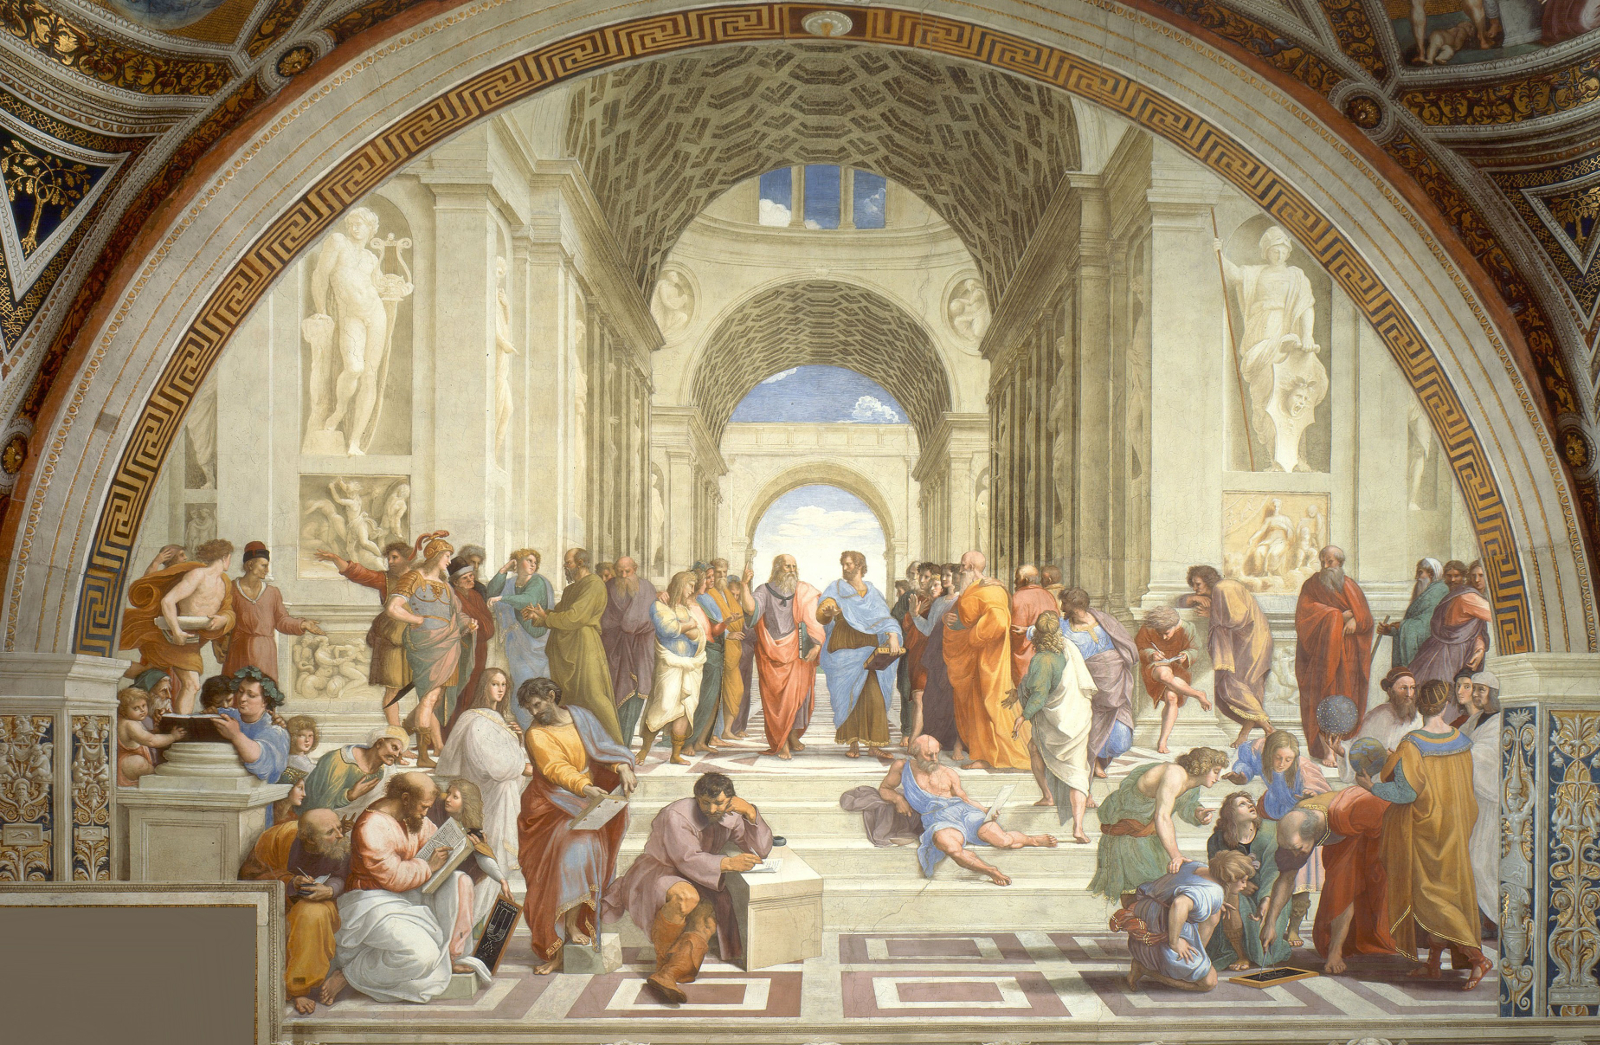
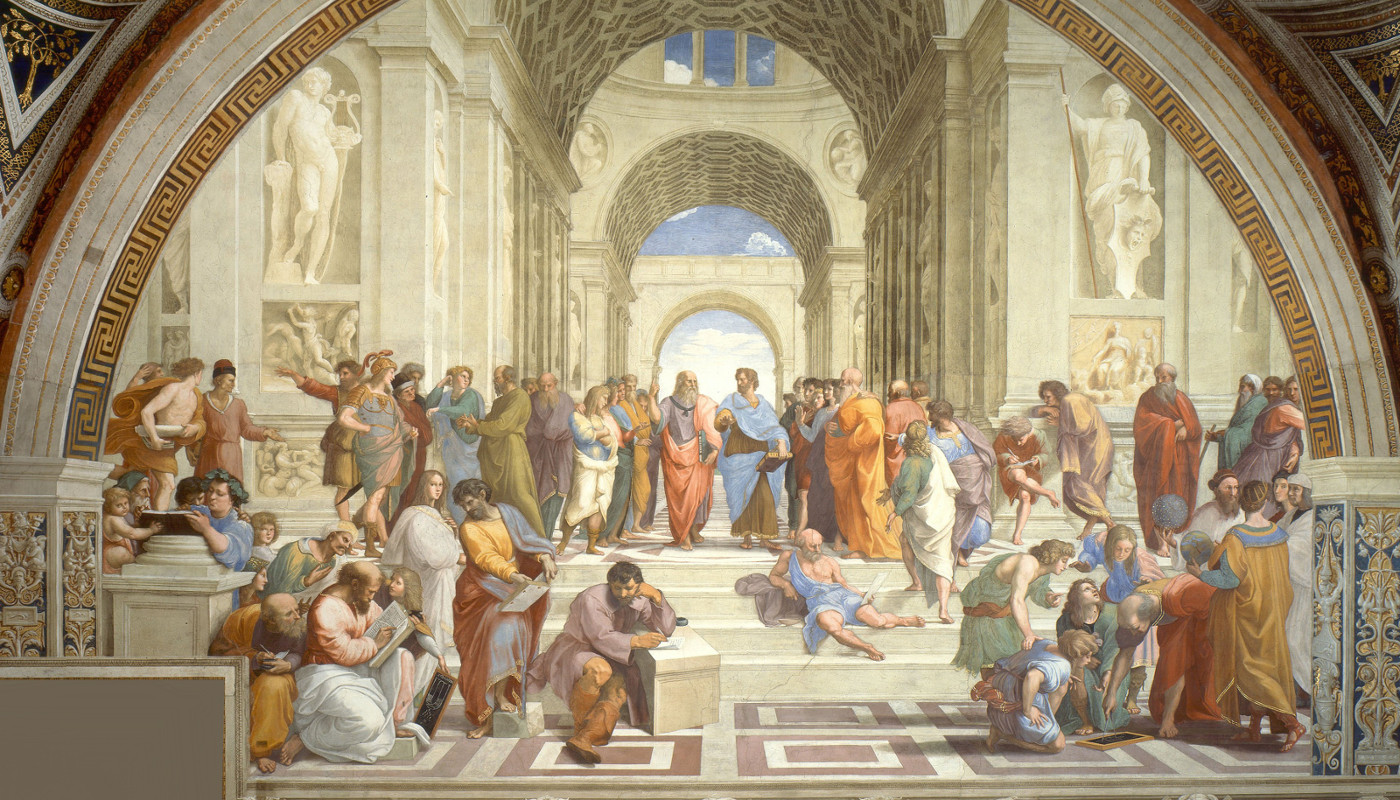
add meta for images and pages, compress images on homepage

diff --git a/lib/utils.js b/lib/utils.js
@@ -200,6 +200,17 @@ this.Utils = {
 		Utils.setMetaTag('property', 'twitter:description', 'content', description);
 		Utils.setMetaTag('itemprop', 'description', 'content', description);
 	},
+	setMetaImage(imageSrc = null){
+		if (imageSrc) {
+			Utils.setMetaTag('property', 'og:image', 'content', imageSrc);
+			Utils.setMetaTag('property', 'twitter:image', 'content', imageSrc);
+			Utils.setMetaTag('itemprop', 'image', 'content', imageSrc);
+		} else {
+			Utils.setMetaTag('property', 'og:image', 'content', `${location.origin}/images/hector.jpg`);
+			Utils.setMetaTag('property', 'twitter:image', 'content', `${location.origin}/images/hector.jpg`);
+			Utils.setMetaTag('itemprop', 'image', 'content', `${location.origin}/images/hector.jpg`);
+		}
+	},
 	setMetaTag(attr1, key, attr2, val) {
 		const metaInfo = {};
 		metaInfo[attr1] = key;

diff --git a/client/views/pages/SinglePage.jsx b/client/views/pages/SinglePage.jsx
@@ -69,6 +69,14 @@ SinglePage = React.createClass({
 				<PageNotFound />
 			);
 		}
+
+		if (page && page.title) {
+			Utils.setTitle(page.title);
+		}
+		if (headerImageSource) {
+			Utils.setMetaImage(headerImageSource);
+		}
+
 		return (
 			// todo: return 404 if !page.length
 			<div className={pageClass}>

diff --git a/client/views/commentary/Commentary.jsx b/client/views/commentary/Commentary.jsx
@@ -399,6 +399,7 @@ Commentary = React.createClass({
 		Utils.setMetaTag('name', 'subject', 'content', metaSubject);
 		Utils.setTitle(title);
 		Utils.setDescription(`Commentary on ${title}: ${description}`);
+		Utils.setMetaImage();
 	},
 
 	renderNoCommentsOrLoading() {

diff --git a/client/views/pages/AboutPage.jsx b/client/views/pages/AboutPage.jsx
@@ -1,6 +1,8 @@
 AboutPage = React.createClass({
 
 	render() {
+		Utils.setTitle('About');
+
 		return (
 
 			<div className="page page-about content primary">
